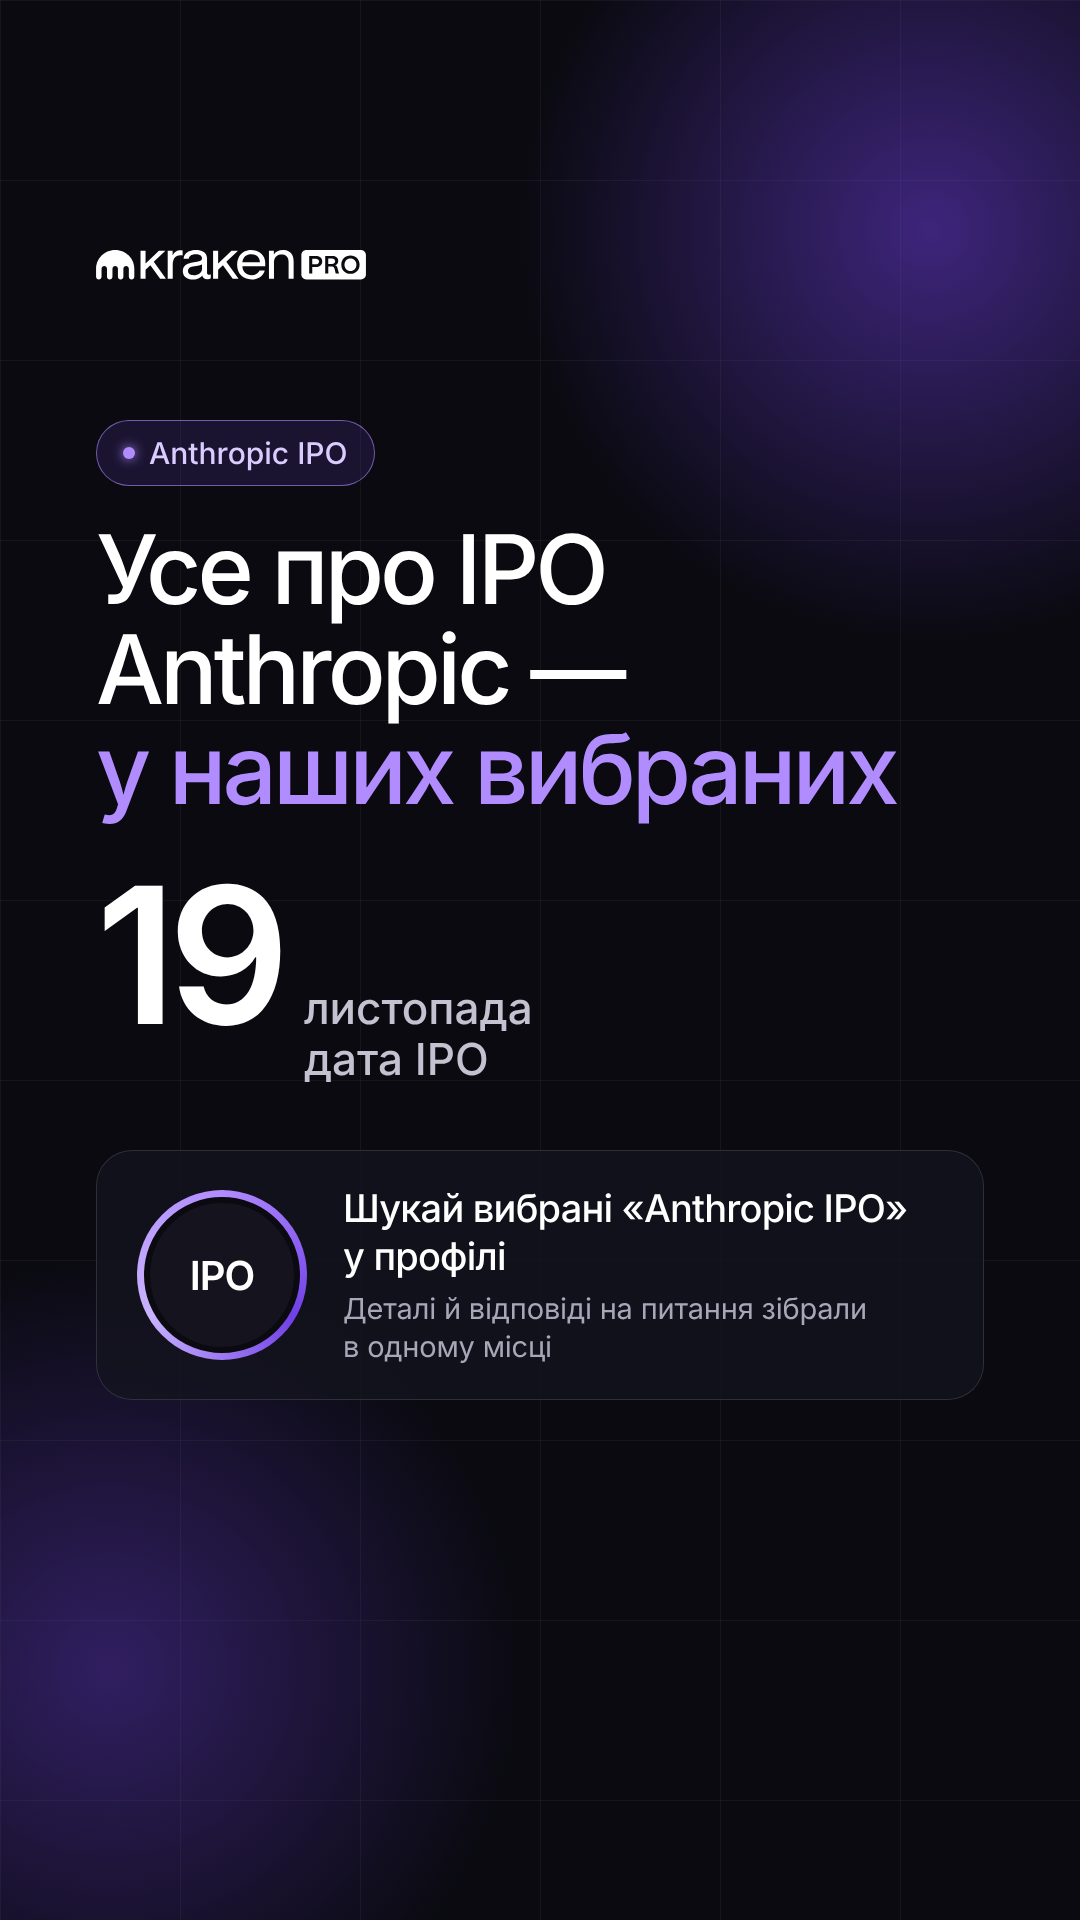
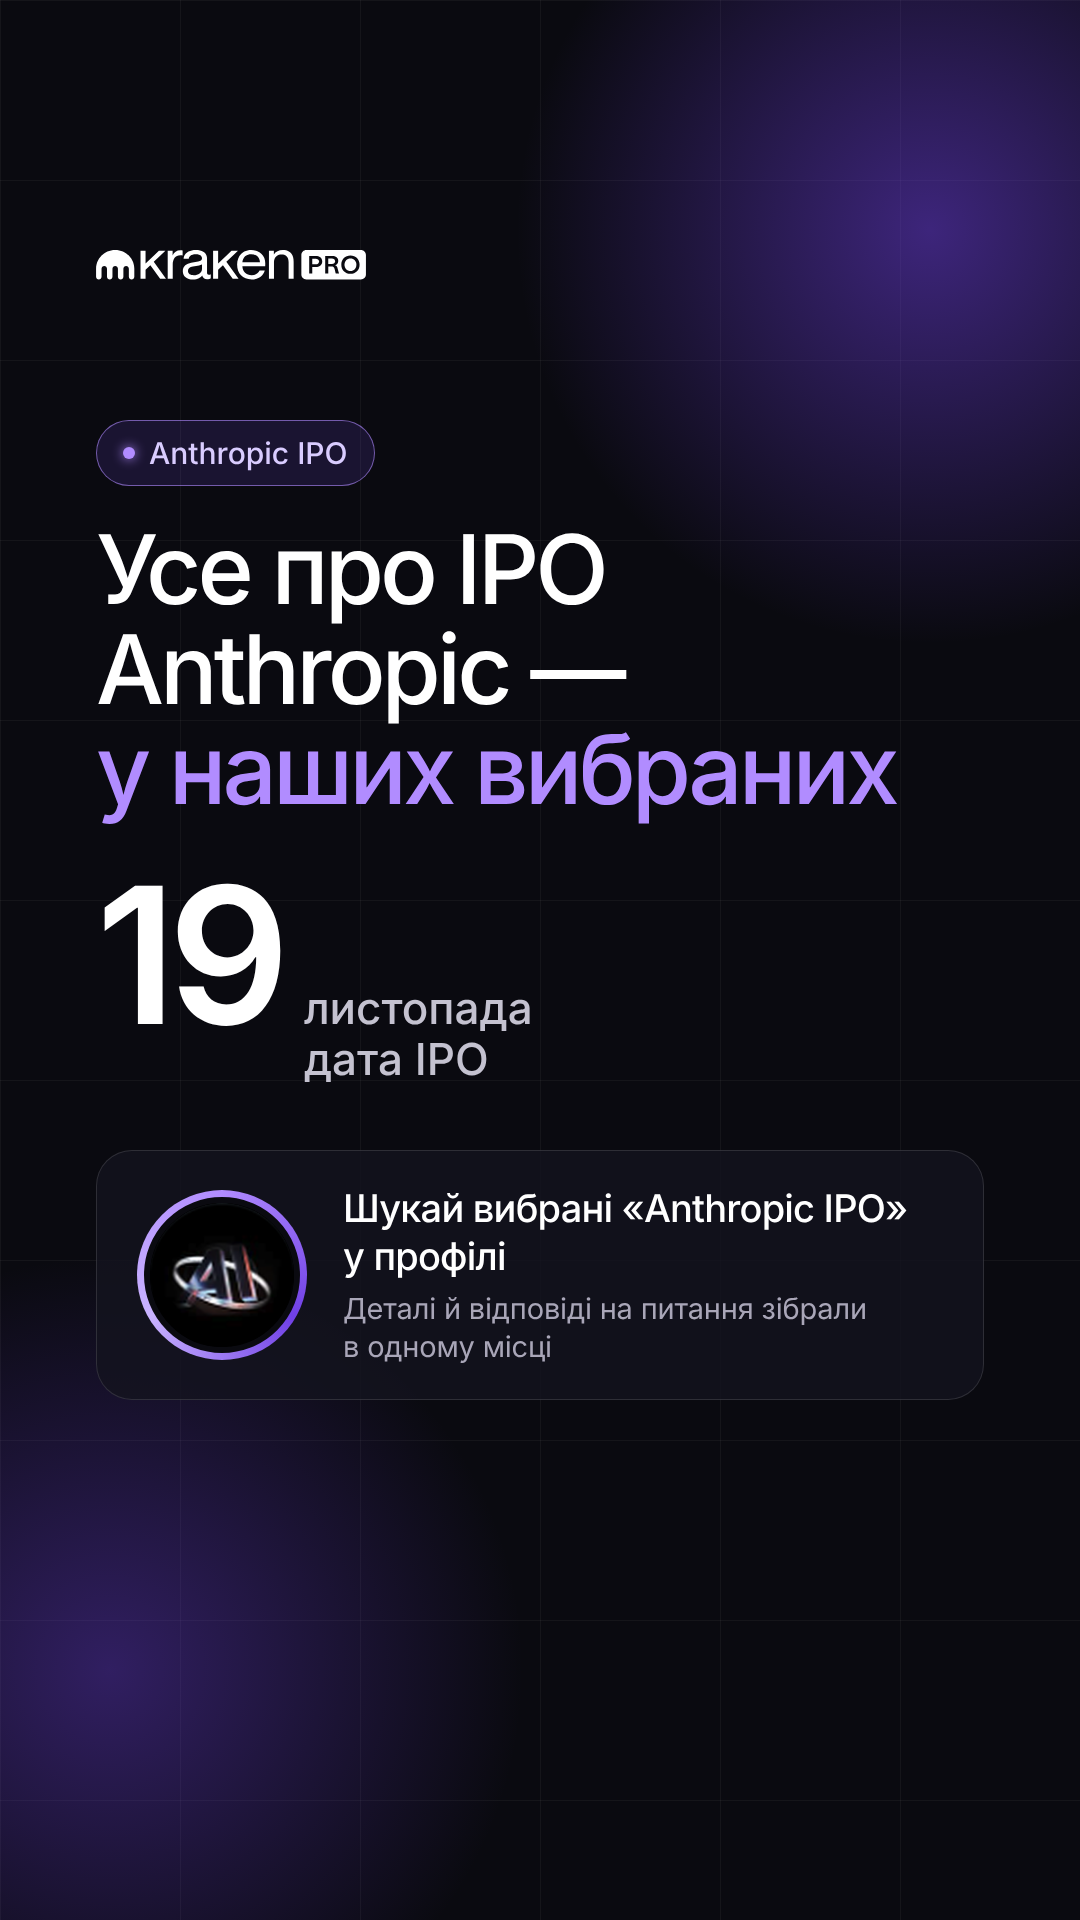
Anthropic IPO story: back to first layout with real highlight cover
Claude-Session: https://claude.ai/code/session_01Li97ffKf2q18jZ4p57ZTsX

Changed region(s): [[0.1222, 0.625, 0.275, 0.7188]]

diff --git a/anthropic-ipo-story/story.html b/anthropic-ipo-story/story.html
@@ -18,10 +18,11 @@ h1 span{color:#B18CFF}
 .ring div{width:100%;height:100%;border-radius:50%;background:#14131E;border:6px solid #0A0A10;display:grid;place-items:center;font-size:40px;font-weight:600;letter-spacing:-1px;color:#fff}
 .hl p{font-size:38px;font-weight:500;line-height:1.25;letter-spacing:-.8px}
 .hl p small{display:block;margin-top:10px;font-size:29px;font-weight:400;color:#a9a6b8;letter-spacing:-.2px;line-height:1.3}
+.ring div{overflow:hidden;background:#000}.ring img{width:100%;height:100%;display:block}
 </style></head><body><div id="s"><div class="g1"></div><div class="g2"></div>
 <img class="logo" src="logo.svg">
 <div class="chip"><i></i>Anthropic IPO</div>
 <h1>Усе про IPO Anthropic —<br><span>у наших вибраних</span></h1>
 <div class="date"><b>19</b><em>листопада<br>дата IPO</em></div>
-<div class="hl"><div class="ring"><div>IPO</div></div><p>Шукай вибрані «Anthropic IPO» у профілі<small>Деталі й відповіді на питання зібрали в одному місці</small></p></div>
+<div class="hl"><div class="ring"><div><img src="highlight-cover.png"></div></div><p>Шукай вибрані «Anthropic IPO» у профілі<small>Деталі й відповіді на питання зібрали в одному місці</small></p></div>
 </div></body></html>
